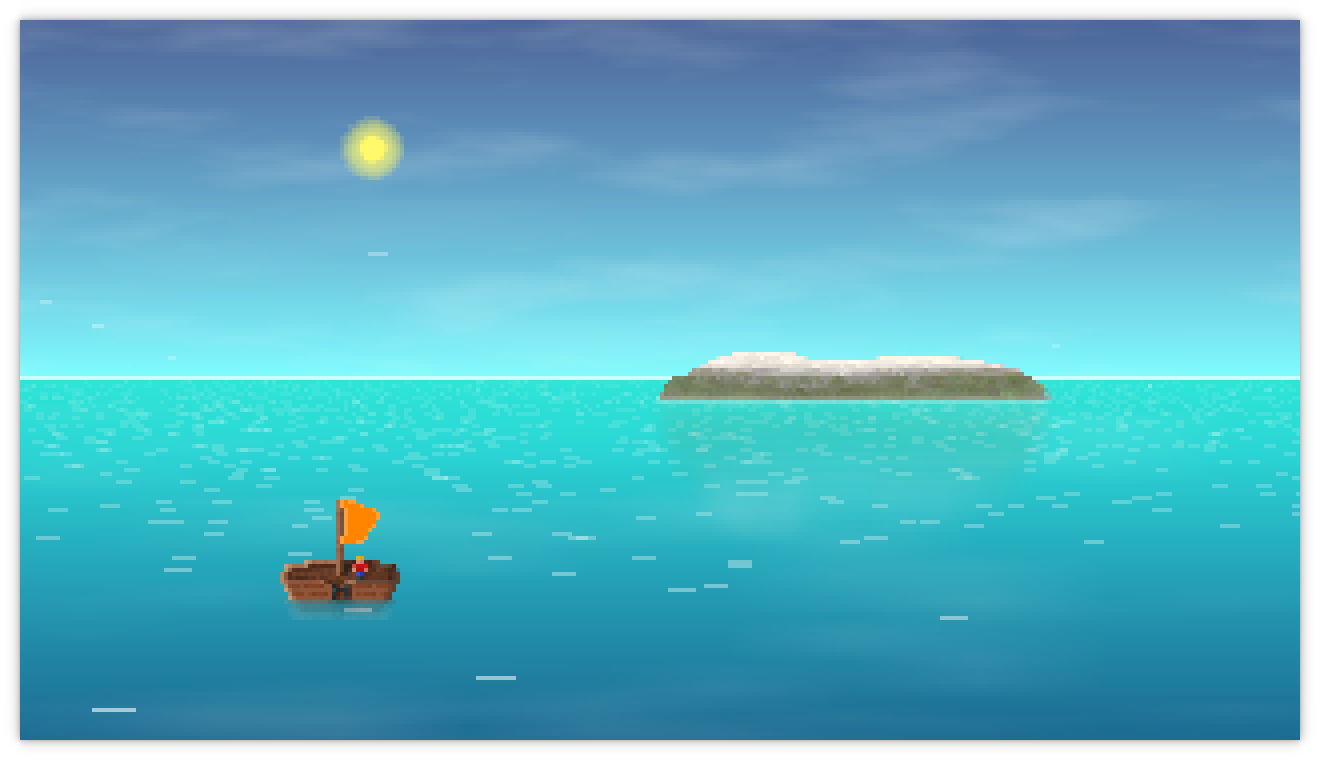
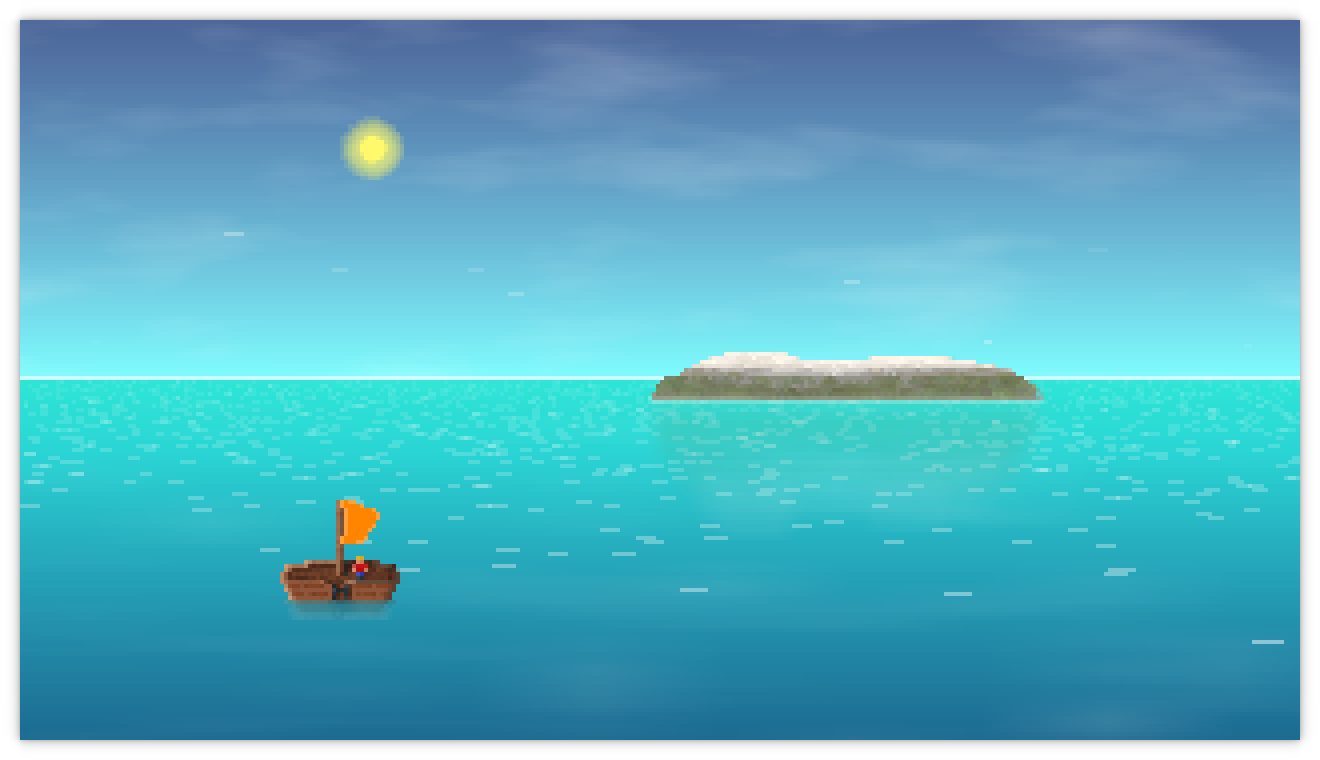
update screenshot, fix reflection alignment

diff --git a/drawGame.go b/drawGame.go
@@ -42,8 +42,8 @@ const (
 
 	cloudBlurAmountX  = 32
 	cloudBlurAmountY  = 1
-	cloudBlurStrech   = 1.5
-	cloudReflectAlpha = 0.8
+	cloudBlurStrech   = 1
+	cloudReflectAlpha = 0.5
 )
 
 var (
@@ -101,8 +101,8 @@ func (g *Game) drawGame(screen *ebiten.Image) {
 	//Cloud reflection
 	screen.DrawImage(cloudbuf, nil)
 	op := &ebiten.DrawImageOptions{}
-	op.GeoM.Scale(cloudBlurAmountX, -cloudBlurAmountY*cloudBlurStrech)
-	op.GeoM.Translate(0, dWinHeight)
+	op.GeoM.Scale(cloudBlurAmountX, -cloudBlurAmountY/cloudBlurStrech)
+	op.GeoM.Translate(0, dWinHeight*cloudBlurAmountY)
 	op.ColorScale.ScaleAlpha(cloudReflectAlpha)
 	//op.Blend = ebiten.BlendLighter
 	op.Filter = ebiten.FilterLinear
